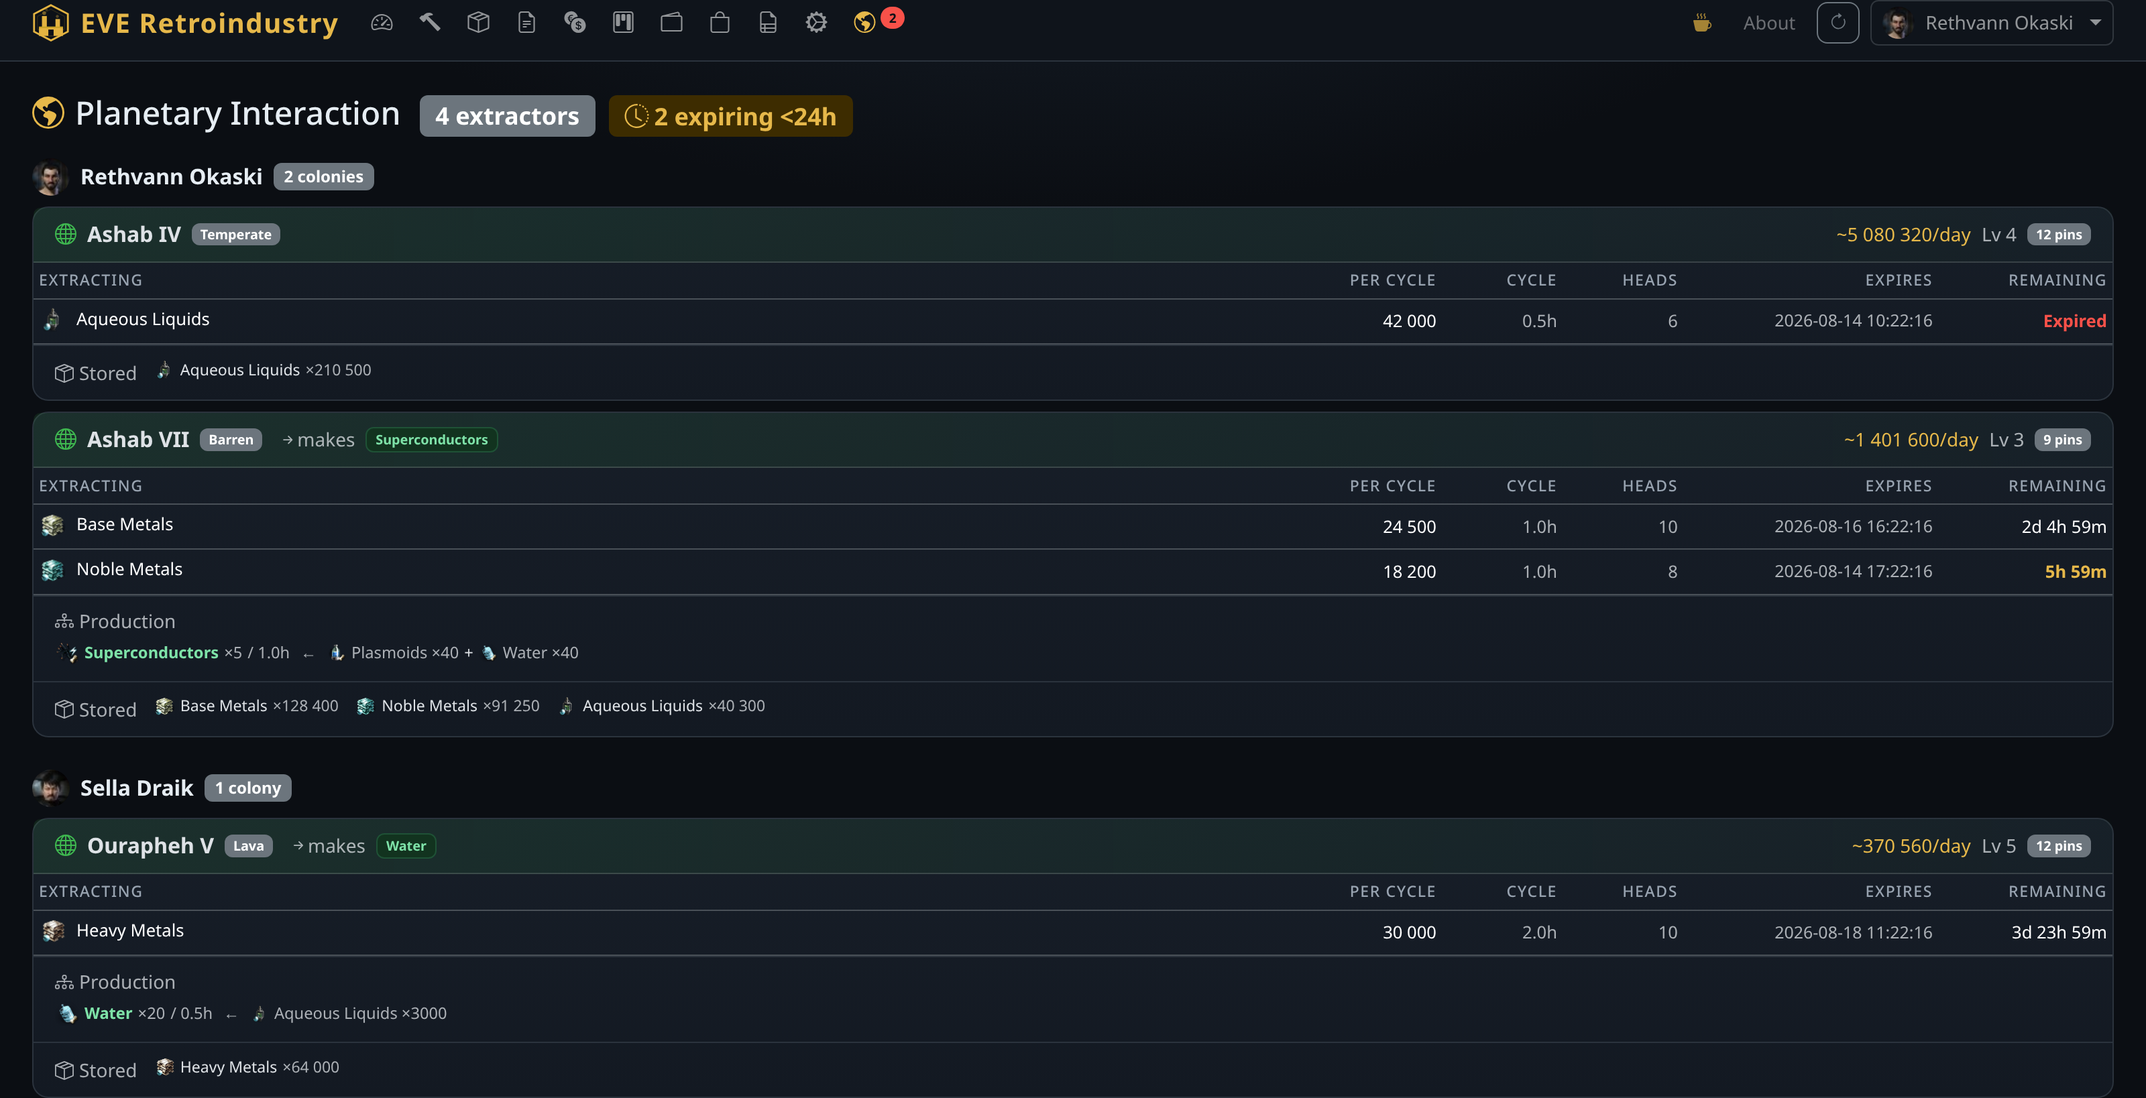
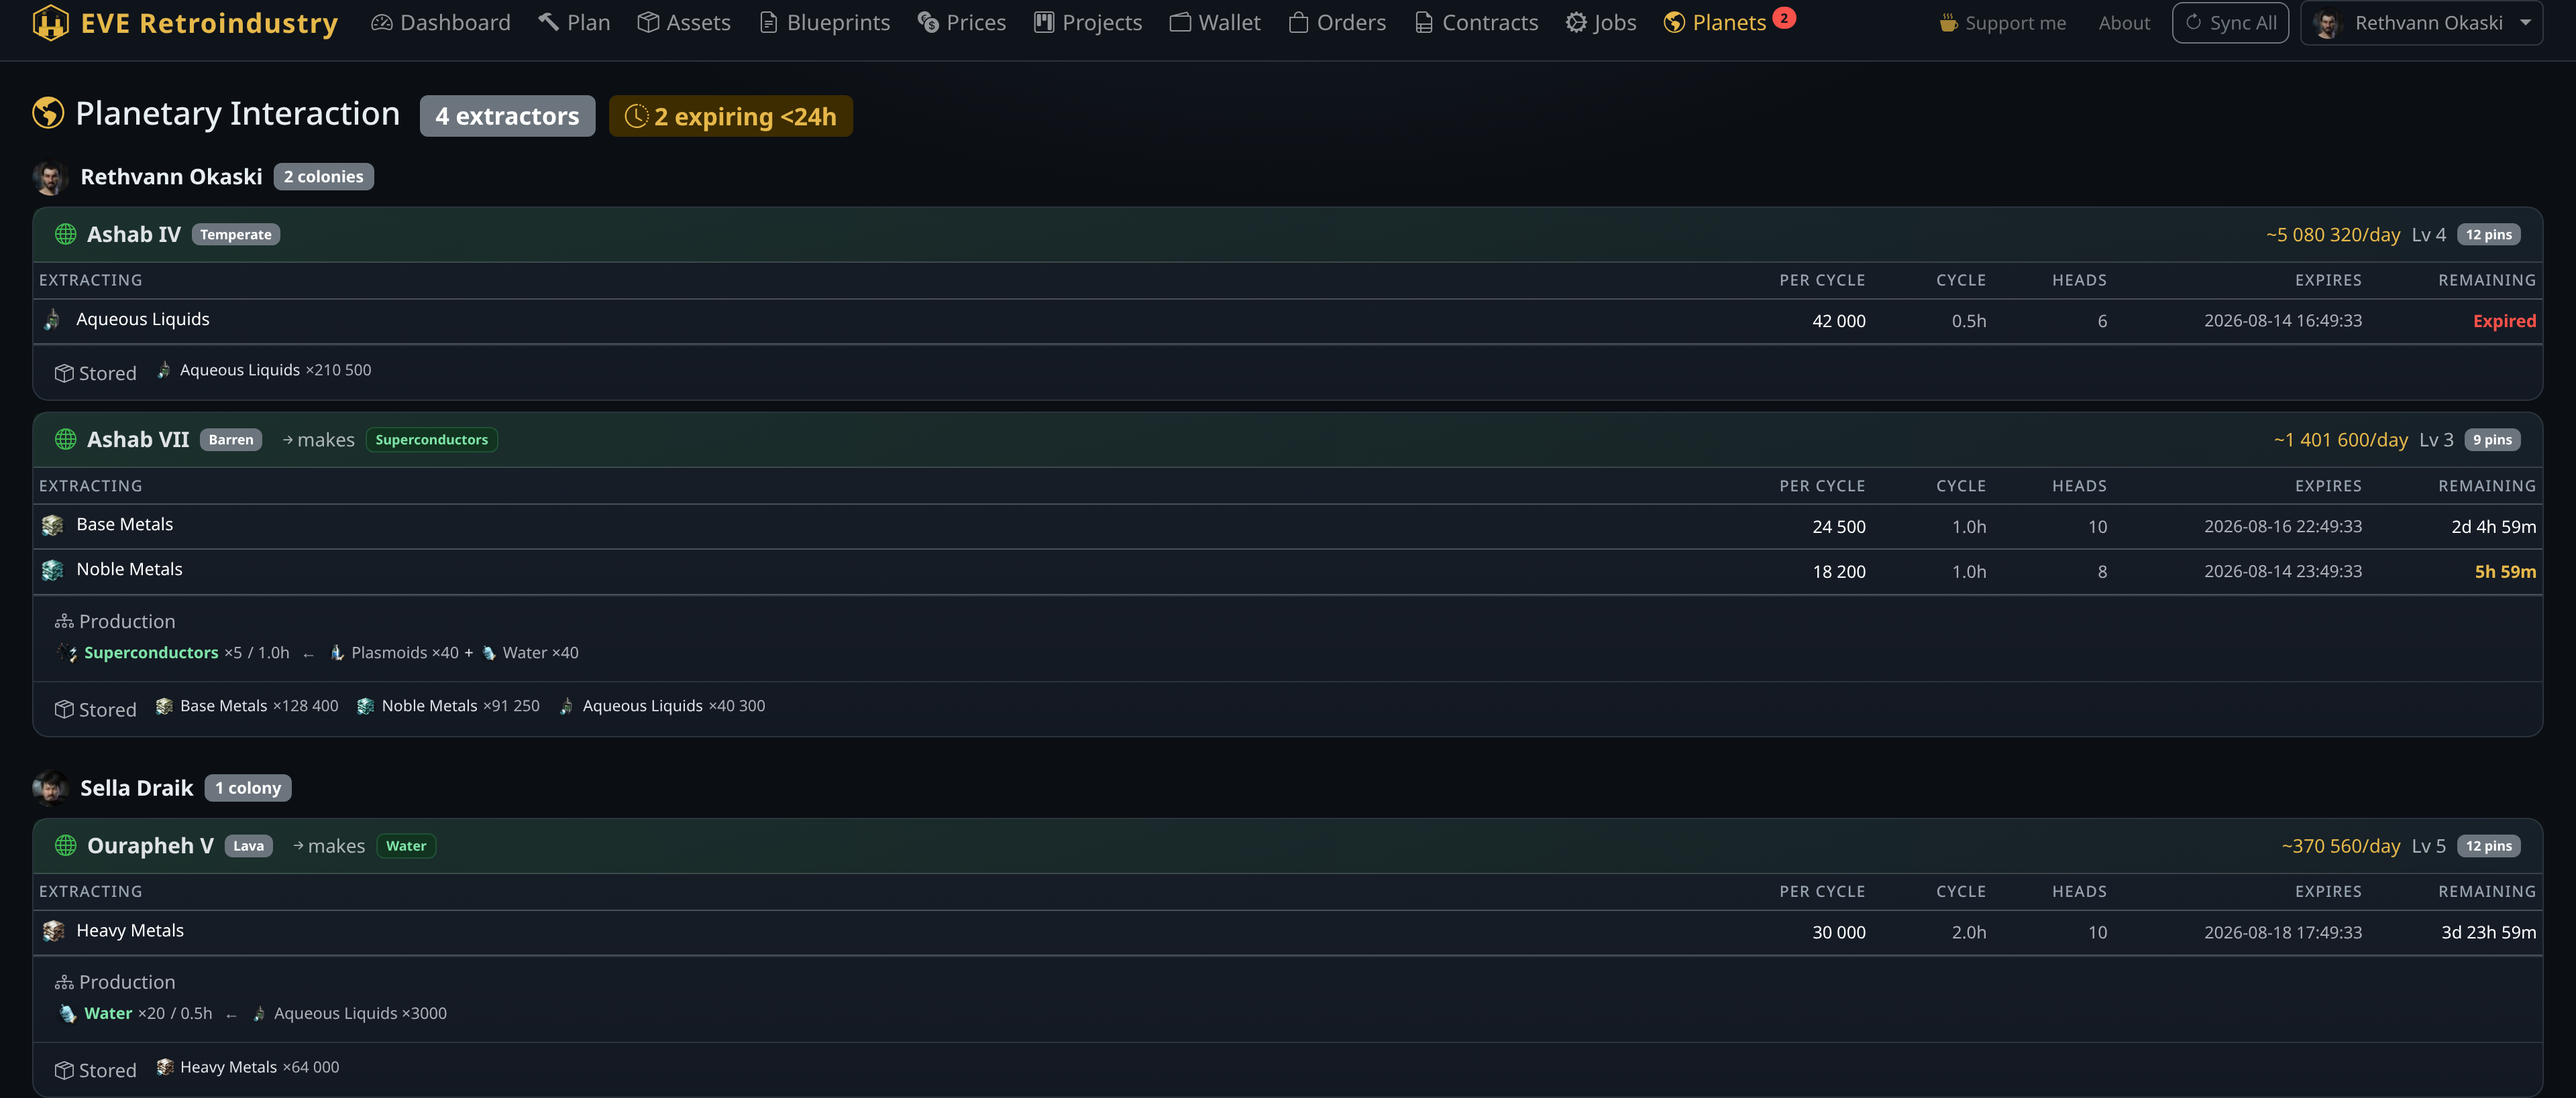
Regenerate screenshots wide enough to show the navbar labels
The generator rendered at 1600 px, where the navbar has already collapsed to
icons only, so every screenshot showed an unlabelled toolbar that tells a new
visitor nothing. Measured where it flips — between 1700 and 1800 px — and set the
viewport to 1920, which keeps the labels with room for a longer character name.

diff --git a/scripts/gen_demo_screenshots.py b/scripts/gen_demo_screenshots.py
@@ -28,6 +28,12 @@ from fastapi import Request  # module-level so FastAPI can resolve the route ann
 
 REPO = os.path.dirname(os.path.dirname(os.path.abspath(__file__)))
 SRC_DB = os.path.join(REPO, "eve_cache.db")
+
+# Viewport width for the screenshots. The navbar collapses to icon-only as soon as
+# the full labels would overflow (measured: it flips between 1700 and 1800 px), and
+# a screenshot of unlabelled icons is hard to read. 1920 keeps the labels with room
+# to spare for a longer character name.
+SHOT_WIDTH = 1920
 OUT_DIR = os.path.join(REPO, "docs", "screenshots")
 PORT = 8899
 
@@ -381,7 +387,7 @@ def main() -> None:
             ["chromium", "--headless=new", "--disable-gpu", "--no-sandbox",
              "--no-first-run", f"--user-data-dir={prof}",
              "--hide-scrollbars", "--force-device-scale-factor=2",
-             f"--virtual-time-budget={vtb}", f"--window-size=1600,{h}",
+             f"--virtual-time-budget={vtb}", f"--window-size={SHOT_WIDTH},{h}",
              f"--screenshot={out}", url],
             check=False, stdout=subprocess.DEVNULL, stderr=subprocess.DEVNULL)
         subprocess.run(["magick", out, "-fuzz", "3%", "-trim", "+repage", out],
